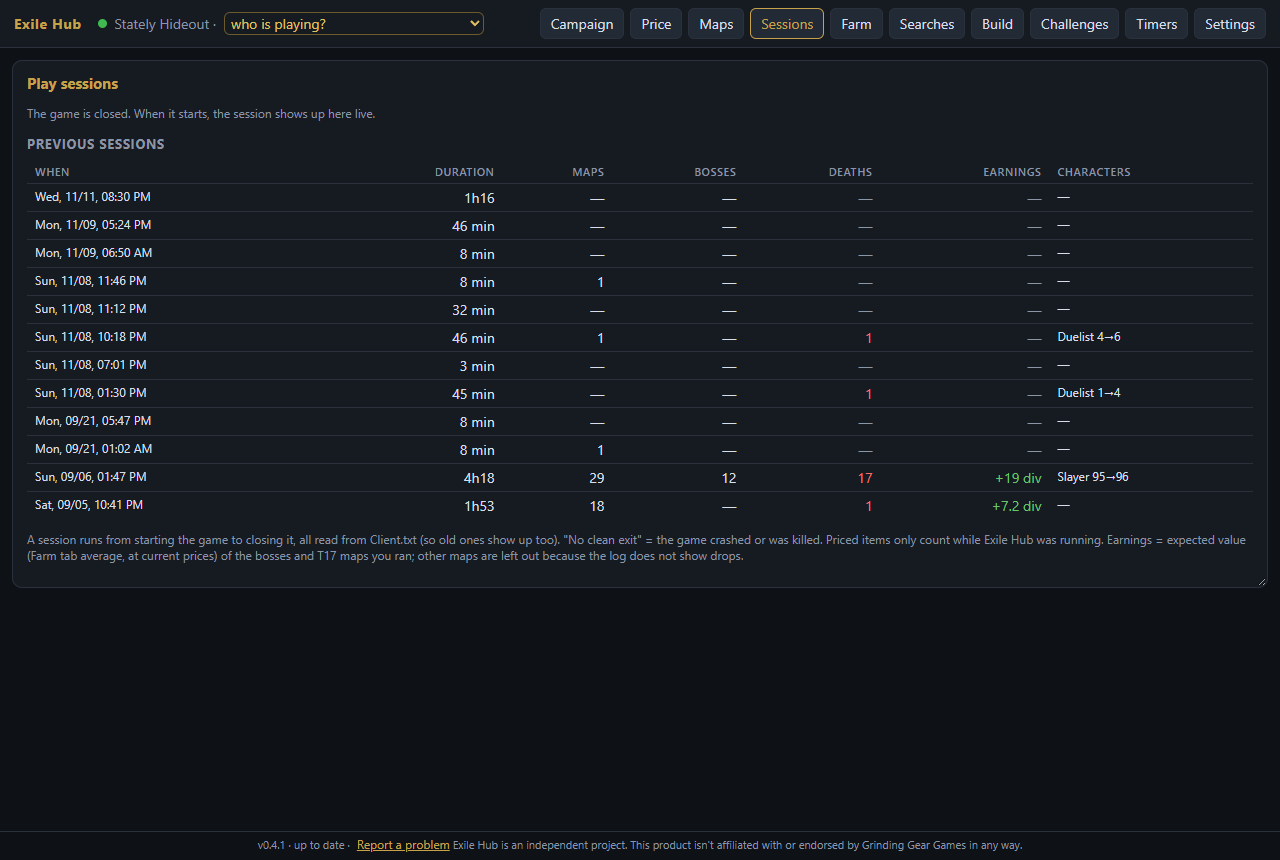
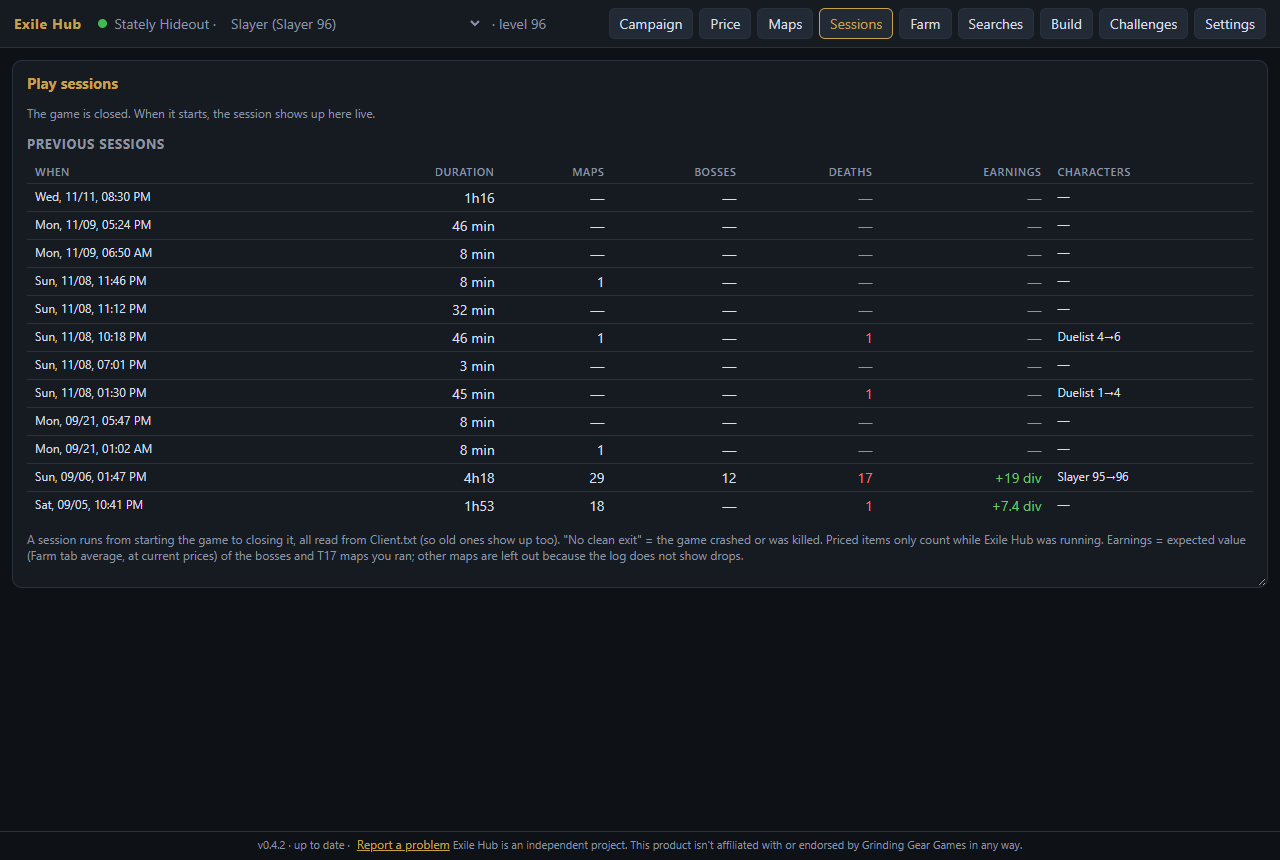
0.4.2: remember who is playing, dark controls, site lightbox
- Session keeps the last character as a guess after a login or restart
  (Session.assumed): undone by another character's level-up or death, the
  area-level check or the logged-out-area match; a guessed character's saved
  progress is never overwritten. The header pick is saved and restored.
- backfill updates the endgame flag, so restarting in the hideout still shows
  the endgame campaign panel.
- Header: no duplicate "level" next to the character picker.
- Native controls (dropdowns, scrollbars) use the dark palette
  (color-scheme: dark) in the app and on the site.
- Site: screenshots open in an in-page lightbox (close with the X, Esc or a
  click outside) instead of a new tab; screenshots retaken.

Changed region(s): [[0.5938, 0.0, 0.9062, 0.0605], [0.4062, 0.0, 0.5625, 0.0605], [0.1875, 0.0, 0.2812, 0.0605]]

diff --git a/src/core/session.ts b/src/core/session.ts
@@ -61,6 +61,12 @@ export class Session {
   /** a login just happened: the next area tells where that character is */
   private loginPending = false;
   /**
+   * The character is a guess: the one from before a login (character select, game restart), kept
+   * until the log says otherwise (another character levels up or dies, an area too high for it).
+   * Meanwhile its saved progress is not overwritten: what happens may belong to someone else.
+   */
+  private assumed = false;
+  /**
    * The account's own characters with their last known class/level (every level-up in the whole
    * log). Set by the app once the full log is read; other players never level up in this log.
    */
@@ -102,7 +108,7 @@ export class Session {
 
   exportProgress(now: number = Date.now()): ProgressData {
     const characters = { ...this.characters };
-    if (this.characterName) characters[this.characterName] = this.snapshot(now);
+    if (this.characterName && !this.assumed) characters[this.characterName] = this.snapshot(now);
     return { version: 1, current: this.characterName, characters };
   }
 
@@ -136,15 +142,23 @@ export class Session {
    * not the one we think is playing, X is who is playing (a switch the log did not name).
    */
   private onDeath(name: string, now: number): boolean {
-    if (name === this.characterName || !this.known(name)) return false;
+    if (name === this.characterName) {
+      this.assumed = false; // our guess died: it was right
+      return false;
+    }
+    if (!this.known(name)) return false;
     this.identify(name, now);
     return true;
   }
 
   /** This known character is the one playing (its saved progress comes back). */
   identify(name: string, now: number = Date.now()): void {
-    if (name === this.characterName) return;
-    if (this.characterName) this.characters[this.characterName] = this.snapshot(now);
+    if (name === this.characterName) {
+      this.assumed = false;
+      return;
+    }
+    this.saveCurrent(now);
+    this.assumed = false;
     const saved = this.characters[name];
     if (saved) this.restore(name, saved, now);
     else {
@@ -164,15 +178,19 @@ export class Session {
 
   // ---- events -----------------------------------------------------------------
 
+  /** The current character's progress, unless it is only a guess. */
+  private saveCurrent(now: number): void {
+    if (this.characterName && !this.assumed) this.characters[this.characterName] = this.snapshot(now);
+  }
+
   /**
-   * Login server connection: game start or back to character select. Whoever logs in is unknown
-   * until a level-up names them; the first area may already tell (see onFirstAreaAfterLogin).
+   * Login server connection: game start or back to character select. The last character stays as a
+   * guess (most players keep playing the same one) until the log says otherwise; the first area may
+   * already tell (see onFirstAreaAfterLogin).
    */
   private onLogin(now: number): void {
-    if (this.characterName) this.characters[this.characterName] = this.snapshot(now);
-    this.characterName = null;
-    this.className = null;
-    this.characterLevel = null;
+    this.saveCurrent(now);
+    if (this.characterName) this.assumed = true;
     this.freshRun = false;
     this.loginPending = true;
   }
@@ -187,7 +205,10 @@ export class Session {
     const here = Object.entries(this.characters).filter(
       ([, p]) => p.lastArea === areaId && (p.level === null || areaLevel <= p.level + kLevelSlack),
     );
-    if (here.length === 1) this.restore(here[0][0], here[0][1], now);
+    if (here.length === 1) {
+      this.restore(here[0][0], here[0][1], now);
+      this.assumed = false;
+    }
   }
 
   /**
@@ -202,13 +223,14 @@ export class Session {
       this.characterName = null;
       this.className = null;
       this.characterLevel = null;
+      this.assumed = false;
     }
   }
 
   private onLevelUp(ev: { character: string; className: string; level: number }, now: number): void {
     if (ev.character !== this.characterName) {
       const prev = this.characterName;
-      if (prev) this.characters[prev] = this.snapshot(now);
+      this.saveCurrent(now);
       const saved = this.characters[ev.character];
       if (this.freshRun) {
         // the run in progress belongs to this character (a new run that just started): keep it
@@ -224,12 +246,14 @@ export class Session {
       this.characterName = ev.character;
     }
     this.freshRun = false;
+    this.assumed = false;
     this.className = ev.className;
     this.characterLevel = ev.level;
   }
 
   private onNewRun(now: number): void {
-    if (this.characterName) this.characters[this.characterName] = this.snapshot(now);
+    this.saveCurrent(now);
+    this.assumed = false;
     this.reset();
     this.characterName = null;
     this.className = null;
@@ -251,11 +275,7 @@ export class Session {
         this.checkLevelFits(ev.areaId, ev.areaLevel);
         const known = this.lookups.areas[ev.areaId];
         this.areaName = known?.name ?? ev.areaId;
-        // the zone data also has "act 11" (Karui Shores, the endgame town): only acts 1-10 are campaign
-        const info = known && known.act <= kLastCampaignAct ? known : undefined;
-        // hideouts/towns say nothing about which kind of character is playing
-        if (info) this.endgame = false;
-        else if (known || (!isHideoutOrTown(ev.areaId) && (isMapArea(ev.areaId) || ev.areaLevel >= kEndgameAreaLevel))) this.endgame = true;
+        const info = this.updateEndgame(ev.areaId, ev.areaLevel);
         if (info) {
           this.tracker.onArea(ev.areaId);
           this.timer.onArea(info.act, ts);
@@ -282,6 +302,19 @@ export class Session {
     }
   }
 
+  /**
+   * Campaign zone = not endgame; a map or a non-campaign area of level 68+ = endgame; hideouts and
+   * towns say nothing. Returns the zone's campaign info (acts 1-10; Karui Shores is "act 11" in the
+   * zone data: the endgame town).
+   */
+  private updateEndgame(areaId: string, areaLevel: number) {
+    const known = this.lookups.areas[areaId];
+    const info = known && known.act <= kLastCampaignAct ? known : undefined;
+    if (info) this.endgame = false;
+    else if (known || (!isHideoutOrTown(areaId) && (isMapArea(areaId) || areaLevel >= kEndgameAreaLevel))) this.endgame = true;
+    return info;
+  }
+
   applyLine(line: string, now: number = Date.now()): boolean {
     const ev = parseLine(line);
     return ev ? this.apply(ev, now) : false;
@@ -300,6 +333,7 @@ export class Session {
         this.areaId = ev.areaId; // snapshots taken at a later login must see where the character was
         if (this.loginPending) this.onFirstAreaAfterLogin(ev.areaId, ev.areaLevel, now);
         this.checkLevelFits(ev.areaId, ev.areaLevel);
+        this.updateEndgame(ev.areaId, ev.areaLevel); // so a restart in the hideout still knows it is endgame
       } else if (ev.type === "enter") enteredName = ev.name;
       else if (ev.type === "levelup") this.onLevelUp(ev, now);
       else if (ev.type === "login") this.onLogin(now);

diff --git a/docs/index.html b/docs/index.html
@@ -27,6 +27,7 @@
   --green: #7ee787;
   --purple: #b392f0;
   --radius: 12px;
+  color-scheme: dark;
 }
 * { box-sizing: border-box; }
 html { scroll-behavior: smooth; }
@@ -279,6 +280,14 @@ nav.top .links + .lang-toggle { margin-left: 0; }
 .shots img { display: block; width: 100%; height: auto; aspect-ratio: 1280 / 860; object-fit: cover; object-position: top; }
 .shots figcaption { color: var(--muted); font-size: 14px; margin-top: 8px; }
 @media (max-width: 900px) { .shots { grid-template-columns: 1fr; } }
+/* enlarged screenshot over the page (no navigation: the page stays where it was) */
+.lightbox { position: fixed; inset: 0; z-index: 50; background: rgba(5, 7, 10, .88); display: none;
+  align-items: center; justify-content: center; padding: 56px 16px 16px; cursor: zoom-out; }
+.lightbox.open { display: flex; }
+.lightbox img { max-width: 100%; max-height: 100%; border-radius: 8px; border: 1px solid var(--border); cursor: default; }
+.lightbox button { position: absolute; top: 12px; right: 16px; width: 40px; height: 40px; border-radius: 50%;
+  border: 1px solid var(--border); background: var(--panel2); color: var(--text); font-size: 20px; cursor: pointer; }
+.lightbox button:hover { border-color: var(--accent); }
 </style>
 </head>
 <body>
@@ -439,18 +448,18 @@ nav.top .links + .lang-toggle { margin-left: 0; }
     <p class="sub en">Dashboard screenshots with real play data. Click to see them full size.</p>
     <div class="shots">
       <figure>
-        <a class="pt" href="img/farm-pt.png" target="_blank" rel="noopener"><img src="img/farm-pt.png" alt="Farm de bosses: lucro por hora com os seus tempos" loading="lazy" width="1280" height="860"></a>
-        <a class="en" href="img/farm-en.png" target="_blank" rel="noopener"><img src="img/farm-en.png" alt="Boss farming: profit per hour with your own times" loading="lazy" width="1280" height="860"></a>
+        <a class="pt" href="img/farm-pt.png" data-shot><img src="img/farm-pt.png" alt="Farm de bosses: lucro por hora com os seus tempos" loading="lazy" width="1280" height="860"></a>
+        <a class="en" href="img/farm-en.png" data-shot><img src="img/farm-en.png" alt="Boss farming: profit per hour with your own times" loading="lazy" width="1280" height="860"></a>
         <figcaption><span class="pt">Farm de bosses: lucro por hora com os seus tempos</span><span class="en">Boss farming: profit per hour with your own times</span></figcaption>
       </figure>
       <figure>
-        <a class="pt" href="img/maps-pt.png" target="_blank" rel="noopener"><img src="img/maps-pt.png" alt="Mapas: tempo, mortes e mapas por hora" loading="lazy" width="1280" height="860"></a>
-        <a class="en" href="img/maps-en.png" target="_blank" rel="noopener"><img src="img/maps-en.png" alt="Maps: time, deaths and maps per hour" loading="lazy" width="1280" height="860"></a>
+        <a class="pt" href="img/maps-pt.png" data-shot><img src="img/maps-pt.png" alt="Mapas: tempo, mortes e mapas por hora" loading="lazy" width="1280" height="860"></a>
+        <a class="en" href="img/maps-en.png" data-shot><img src="img/maps-en.png" alt="Maps: time, deaths and maps per hour" loading="lazy" width="1280" height="860"></a>
         <figcaption><span class="pt">Mapas: tempo, mortes e mapas por hora</span><span class="en">Maps: time, deaths and maps per hour</span></figcaption>
       </figure>
       <figure>
-        <a class="pt" href="img/sessions-pt.png" target="_blank" rel="noopener"><img src="img/sessions-pt.png" alt="Sessões: cada vez que você jogou, com o rendimento" loading="lazy" width="1280" height="860"></a>
-        <a class="en" href="img/sessions-en.png" target="_blank" rel="noopener"><img src="img/sessions-en.png" alt="Sessions: every time you played, with earnings" loading="lazy" width="1280" height="860"></a>
+        <a class="pt" href="img/sessions-pt.png" data-shot><img src="img/sessions-pt.png" alt="Sessões: cada vez que você jogou, com o rendimento" loading="lazy" width="1280" height="860"></a>
+        <a class="en" href="img/sessions-en.png" data-shot><img src="img/sessions-en.png" alt="Sessions: every time you played, with earnings" loading="lazy" width="1280" height="860"></a>
         <figcaption><span class="pt">Sessões: cada vez que você jogou, com o rendimento</span><span class="en">Sessions: every time you played, with earnings</span></figcaption>
       </figure>
     </div>
@@ -843,6 +852,11 @@ nav.top .links + .lang-toggle { margin-left: 0; }
   </div>
 </section>
 
+<div class="lightbox" id="lightbox" role="dialog" aria-modal="true" aria-label="Imagem ampliada / Enlarged screenshot">
+  <button type="button" aria-label="Fechar / Close">✕</button>
+  <img alt="">
+</div>
+
 <footer>
   <div class="wrap">
     <div>Exile Hub · <a href="https://github.com/PlaaYz/exile-hub"><span class="pt">código aberto</span><span class="en">open source</span></a> · <a href="https://github.com/PlaaYz/exile-hub/blob/main/LICENSE">MIT</a></div>
@@ -885,6 +899,21 @@ function setLang(lang, remember) {
   });
 }
 document.querySelectorAll("[data-set-lang]").forEach((b) => b.addEventListener("click", () => setLang(b.dataset.setLang, true)));
+
+// Screenshots open enlarged over the page; ✕, Esc or a click outside the picture closes it.
+const lightbox = document.getElementById("lightbox");
+const lightboxImg = lightbox.querySelector("img");
+const closeLightbox = () => { lightbox.classList.remove("open"); lightboxImg.src = ""; };
+document.querySelectorAll("a[data-shot]").forEach((a) =>
+  a.addEventListener("click", (e) => {
+    e.preventDefault();
+    lightboxImg.src = a.href;
+    lightboxImg.alt = a.querySelector("img").alt;
+    lightbox.classList.add("open");
+  }),
+);
+lightbox.addEventListener("click", (e) => { if (e.target !== lightboxImg) closeLightbox(); });
+document.addEventListener("keydown", (e) => { if (e.key === "Escape") closeLightbox(); });
 
 // Donation link: empty = the support section and its menu link stay hidden.
 const DONATE_URL = "";

diff --git a/test/session.test.ts b/test/session.test.ts
@@ -148,27 +148,30 @@ describe("Session", () => {
     expect(s.tracker.cursor).toBe(cursor);
   });
 
-  it("a login (character select) forgets the character; the area it logs into can tell who it is", () => {
+  it("after a login the last character stays as a guess; the area it logs into can tell who it is", () => {
     const login = "2026/11/08 12:00:00 1 a [INFO Client 1] Async connecting to sao.login.pathofexile.com:20492";
+    const mapArea = (id: string, level: number) =>
+      `2026/11/08 12:00:00 1 a [DEBUG Client 1] Generating level ${level} area "${id}" with seed 1`;
     const s = new Session(lookups, routes, true);
     s.applyLine(lvlOf("Camp", "Witch", 6, "12:00:00"));
     s.applyLine(area("1_1_town"));
-    s.applyLine(login); // switch to an endgame character
-    expect(s.characterName).toBeNull();
-    expect(s.characterLevel).toBeNull();
+    s.applyLine(login); // game restart or character select: most players keep the same character
+    expect(s).toMatchObject({ characterName: "Camp", characterLevel: 6 });
     s.applyLine(area("HideoutCourts"));
-    expect(s.characterName).toBeNull(); // nobody known was there
+    expect(s.characterName).toBe("Camp"); // a shared hideout says nothing either way
     s.applyLine(lvlOf("Mapper", "Duelist", 95));
     expect(s.characterName).toBe("Mapper");
     s.applyLine(login); // back to the campaign character, who logs in where they left
     s.applyLine(area("1_1_town"));
     expect(s).toMatchObject({ characterName: "Camp", characterLevel: 6 });
-    s.applyLine(login); // and back to the mapper, in the hideout: shared by the whole account, no guess
+    s.applyLine(login);
     s.applyLine(area("HideoutCourts"));
-    expect(s.characterName).toBeNull();
+    expect(s.characterName).toBe("Camp"); // still the guess...
+    s.applyLine(mapArea("MapWorldsStrand", 83));
+    expect(s.characterName).toBeNull(); // ...until a level 6 character cannot be where the player is
   });
 
-  it("never assumes a character in an area far above its level, nor guesses by a shared hideout", () => {
+  it("never assumes a character in an area far above its level", () => {
     const login = "2026/11/08 12:00:00 1 a [INFO Client 1] Async connecting to sao.login.pathofexile.com:20492";
     const lvlArea = (id: string, level: number) =>
       `2026/11/08 12:00:00 1 a [DEBUG Client 1] Generating level ${level} area "${id}" with seed 1`;
@@ -183,11 +186,23 @@ describe("Session", () => {
     t.applyLine(lvlArea("HideoutCourts", 60));
     expect(t.characterName).toBe("Low"); // hideouts do not count
     t.applyLine(login);
-    t.applyLine(lvlArea("HideoutCourts", 60)); // the hideout is shared by every character
+    t.applyLine(lvlArea("1_5_town", 45)); // not where Low can be
     expect(t.characterName).toBeNull();
-    t.applyLine(login);
-    t.applyLine(lvlArea("1_1_town", 13)); // not where Low logged out either
-    expect(t.characterName).toBeNull();
+  });
+
+  it("a guessed character's saved progress is not overwritten by someone else's play", () => {
+    const login = "2026/11/08 12:00:00 1 a [INFO Client 1] Async connecting to sao.login.pathofexile.com:20492";
+    const s = new Session(lookups, routes, true);
+    s.applyLine(lvlOf("Main", "Witch", 8));
+    s.applyLine(area("1_1_2"));
+    const saved = s.exportProgress().characters.Main.cursor;
+    s.applyLine(login); // actually an alt logs in, in the hideout
+    s.applyLine(area("HideoutCourts"));
+    s.applyLine(area("1_1_3")); // the alt walks on: Main is only a guess, its progress stays
+    expect(s.exportProgress().characters.Main.cursor).toBe(saved);
+    s.applyLine(lvlOf("Alt", "Ranger", 9)); // the log names the alt
+    expect(s.characterName).toBe("Alt");
+    expect(s.exportProgress().characters.Main.cursor).toBe(saved);
   });
 
   it("backfill remembers the area a character logged out from", () => {
@@ -205,9 +220,9 @@ describe("Session", () => {
     s.applyLine(lvlOf("Camp", "Witch", 6));
     s.applyLine(login);
     s.applyLine(area("HideoutCourts"));
-    expect(s.characterName).toBeNull();
+    expect(s.characterName).toBe("Camp"); // the guess
     expect(s.applyLine(slain("SomeoneElse"))).toBe(false); // a party member: not one of ours
-    expect(s.characterName).toBeNull();
+    expect(s.characterName).toBe("Camp");
     expect(s.applyLine(slain("OldMapper"))).toBe(true);
     expect(s).toMatchObject({ characterName: "OldMapper", className: "Ascendant", characterLevel: 96 });
   });
@@ -222,5 +237,14 @@ describe("Session", () => {
     s.backfill([area("1_1_2")]);
     s.rebuild(false);
     expect(s.tracker.view().areaId).toBe("1_1_2");
+  });
+});
+
+describe("Session after a restart", () => {
+  it("knows it is endgame from earlier areas even when the last one is a hideout", () => {
+    const lvlArea = (id: string, level: number) => `2026/11/08 12:00:00 1 a [DEBUG Client 1] Generating level ${level} area "${id}" with seed 1`;
+    const s = new Session(lookups, routes, true);
+    s.backfill([lvlArea("MapWorldsStrand", 83), lvlArea("HideoutCourts", 60)]);
+    expect(s.endgame).toBe(true);
   });
 });

diff --git a/src/renderer/Dashboard.tsx b/src/renderer/Dashboard.tsx
@@ -632,7 +632,8 @@ export function DashboardApp() {
           {state.areaName ?? tr("nenhuma zona ainda", "no zone yet")}
           {" · "}
           <CharacterPicker state={state} />
-          {state.characterLevel !== null ? ` · ${tr("nível", "level")} ${state.characterLevel}` : ""}
+          {/* the picker already shows "Name (Class level)" */}
+          {state.characterLevel !== null && !state.knownCharacters.length ? ` · ${tr("nível", "level")} ${state.characterLevel}` : ""}
         </div>
         <div className="chips">
           {/* act timers only mean something in the campaign: no button for them in endgame */}

diff --git a/src/renderer/styles.css b/src/renderer/styles.css
@@ -14,7 +14,10 @@
   font-family: "Segoe UI", system-ui, sans-serif;
   font-size: 14px;
   color: var(--text);
+  /* native controls (dropdown lists, scrollbars, number spinners) in the app's dark palette */
+  color-scheme: dark;
 }
+option { background: var(--panel); color: var(--text); }
 * { box-sizing: border-box; }
 html, body, #root { margin: 0; height: 100%; }
 body.mode-dashboard { background: var(--bg); }

diff --git a/CLAUDE.md b/CLAUDE.md
@@ -191,6 +191,12 @@ its close button (bridge call closeSessionSummary) or when the game starts again
 the last ended session, plus a support link only when DONATE_URL is set. Every window MUST carry the same
 additionalBrowserArgs as the others (else WebView2 fails "0x8007139F ... not in the correct state"), and boot.ts must
 list every secondary mode (else that window starts a second Hub: it failed on ACL "primary_monitor not allowed").
+0.4.2 (2026-11-11): who is playing survives restarts and logins. Session.onLogin keeps the last character as a guess
+(`assumed`): undone by another character's level-up/death, the area-level check (kLevelSlack) or the logged-out-area
+match; while assumed, its saved progress is never overwritten (saveCurrent). The owner's pick in the header is saved
+as progress.json "current". backfill also updates `endgame` (updateEndgame), so a restart in the hideout still knows.
+Native controls use the dark palette (color-scheme: dark in styles.css and the site). Site screenshots open in an
+in-page lightbox (no new tab: the owner got stuck on the bare image).
 Site screenshots: docs/img/{farm,maps,sessions}-{pt,en}.png, taken from the real dashboard through CDP with character
 names replaced by their class (scratchpad shots.mjs); no price shot (other players' account names, owner's PoB test ring).
 Website: docs/ on GitHub Pages (https://plaayz.github.io/exile-hub/), download button = latest release via the GitHub API.
